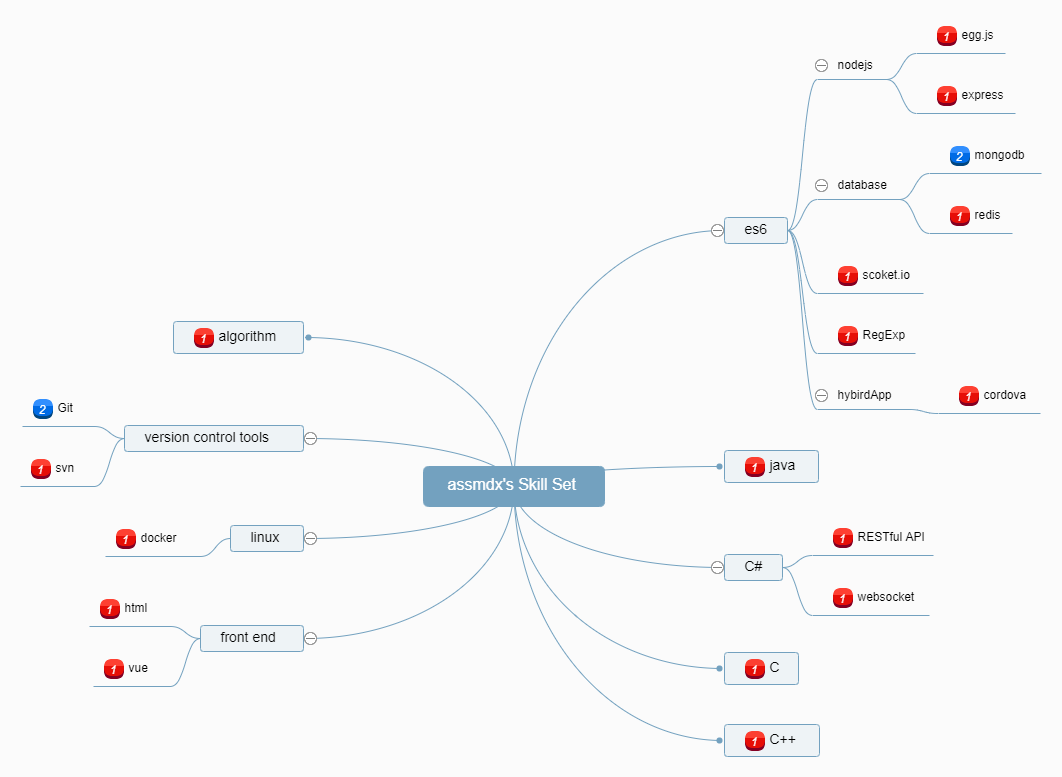
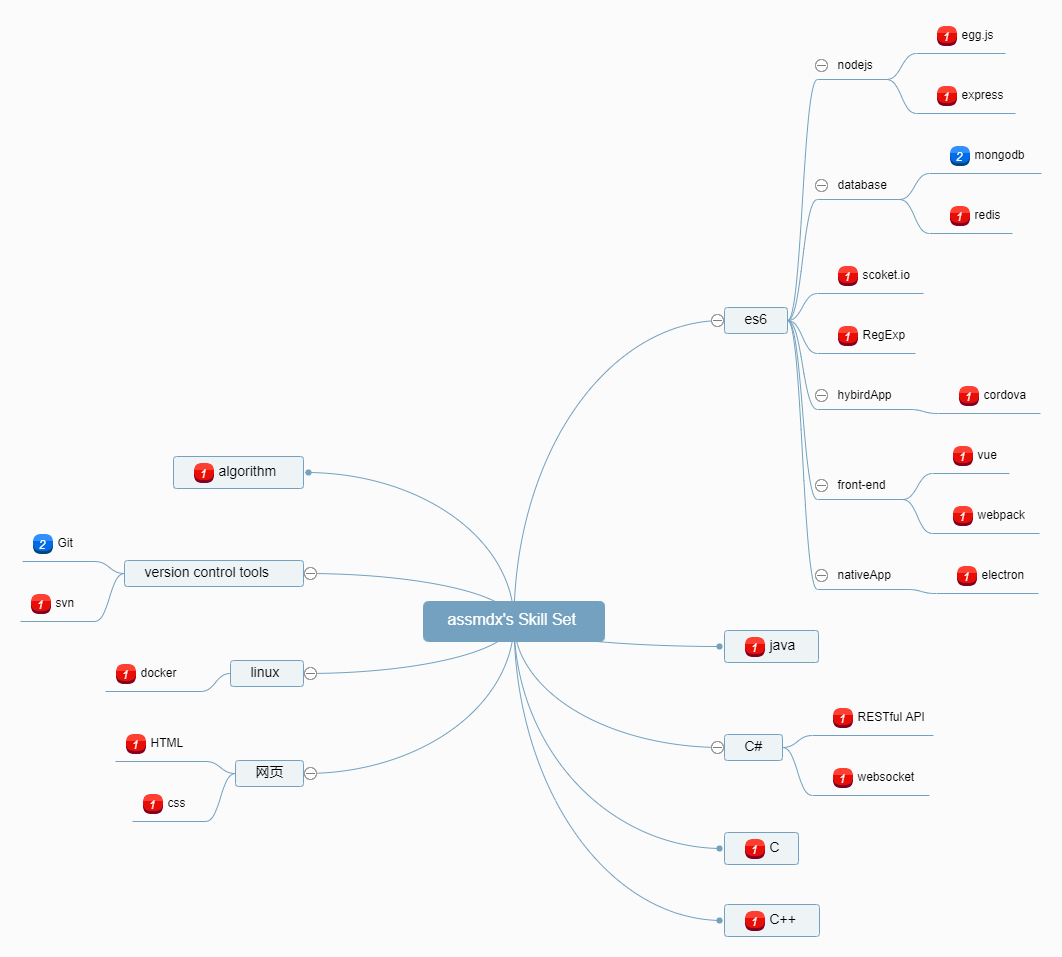
.

diff --git a/public/bundle.js b/public/bundle.js
@@ -1,1 +1,1 @@
-!function(e){var t={};function n(o){if(t[o])return t[o].exports;var r=t[o]={i:o,l:!1,exports:{}};return e[o].call(r.exports,r,r.exports,n),r.l=!0,r.exports}n.m=e,n.c=t,n.d=function(e,t,o){n.o(e,t)||Object.defineProperty(e,t,{configurable:!1,enumerable:!0,get:o})},n.r=function(e){Object.defineProperty(e,"__esModule",{value:!0})},n.n=function(e){var t=e&&e.__esModule?function(){return e.default}:function(){return e};return n.d(t,"a",t),t},n.o=function(e,t){return Object.prototype.hasOwnProperty.call(e,t)},n.p="",n(n.s=1)}([function(e){e.exports={name:"assmdx",skillset:{es6:{nodejs:{"egg.js":1,express:1},database:{mongodb:2,redis:1},"scoket.io":1,RegExp:1,hybirdApp:{cordova:1}},java:1,"C#":{"RESTful API":1,websocket:1},C:1,"C++":1,algorithm:1,"version control tools":{Git:2,svn:1},linux:{docker:1},"front end":{html:1,vue:1}}}},function(e,t,n){"use strict";function o(e){e=JSON.parse(e);try{let t={root:{data:{text:e.name+"'s Skill Set"},children:[]}};return function e(t,n){for(let o in t){if(!t.hasOwnProperty(o)||o.startsWith("."))continue;let r={data:{text:o},children:[]},i=t[o];"object"==typeof i||"string"==typeof i?(i[".level"]&&(r.data.priority=i[".level"]),e(i,r.children)):r.data.priority=i,n.push(r)}}(e.skillset,t.root.children),JSON.stringify(t)}catch(e){return null}}n.r(t);var r=n(0);window.onload=(()=>{const e=ace.edit("editor"),t=ace.require("ace/mode/json").Mode;e.session.setMode(new t),e.setValue(JSON.stringify(r,null,"  "));const n=window.km=new kityminder.Minder;function i(){n.importData("json",o(e.getValue()))}n.renderTo("#minder-view"),i(),n.disable(),n.execCommand("hand"),document.querySelector("#generate-btn").onclick=i,document.querySelector("#save-btn").onclick=function(){n.exportData("png").then(e=>{const t=document.createElement("a");t.href=e,t.download="skill-set.png",t.click(),document.querySelector("canvas").remove()})}})}]);
+!function(e){var t={};function n(o){if(t[o])return t[o].exports;var r=t[o]={i:o,l:!1,exports:{}};return e[o].call(r.exports,r,r.exports,n),r.l=!0,r.exports}n.m=e,n.c=t,n.d=function(e,t,o){n.o(e,t)||Object.defineProperty(e,t,{configurable:!1,enumerable:!0,get:o})},n.r=function(e){Object.defineProperty(e,"__esModule",{value:!0})},n.n=function(e){var t=e&&e.__esModule?function(){return e.default}:function(){return e};return n.d(t,"a",t),t},n.o=function(e,t){return Object.prototype.hasOwnProperty.call(e,t)},n.p="",n(n.s=1)}([function(e){e.exports={name:"assmdx",skillset:{es6:{nodejs:{"egg.js":1,express:1},database:{mongodb:2,redis:1},"scoket.io":1,RegExp:1,hybirdApp:{cordova:1},"front-end":{vue:1,webpack:1},nativeApp:{electron:1}},java:1,"C#":{"RESTful API":1,websocket:1},C:1,"C++":1,algorithm:1,"version control tools":{Git:2,svn:1},linux:{docker:1},"��ҳ":{HTML:1,css:1}}}},function(e,t,n){"use strict";function o(e){e=JSON.parse(e);try{let t={root:{data:{text:e.name+"'s Skill Set"},children:[]}};return function e(t,n){for(let o in t){if(!t.hasOwnProperty(o)||o.startsWith("."))continue;let r={data:{text:o},children:[]},i=t[o];"object"==typeof i||"string"==typeof i?(i[".level"]&&(r.data.priority=i[".level"]),e(i,r.children)):r.data.priority=i,n.push(r)}}(e.skillset,t.root.children),JSON.stringify(t)}catch(e){return null}}n.r(t);var r=n(0);window.onload=(()=>{const e=ace.edit("editor"),t=ace.require("ace/mode/json").Mode;e.session.setMode(new t),e.setValue(JSON.stringify(r,null,"  "));const n=window.km=new kityminder.Minder;function i(){n.importData("json",o(e.getValue()))}n.renderTo("#minder-view"),i(),n.disable(),n.execCommand("hand"),document.querySelector("#generate-btn").onclick=i,document.querySelector("#save-btn").onclick=function(){n.exportData("png").then(e=>{const t=document.createElement("a");t.href=e,t.download="skill-set.png",t.click(),document.querySelector("canvas").remove()})}})}]);
